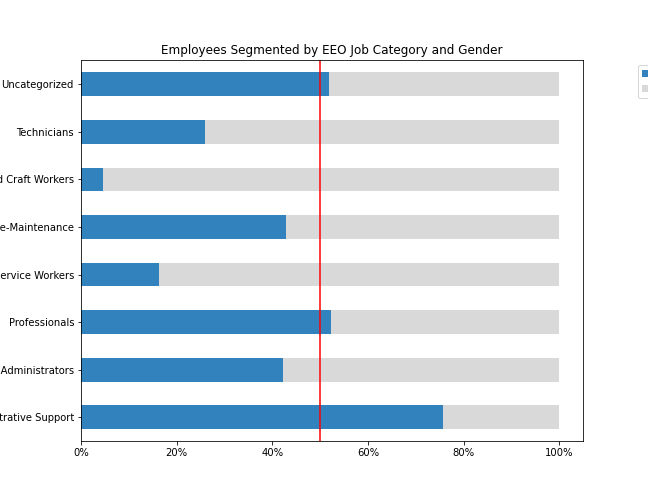
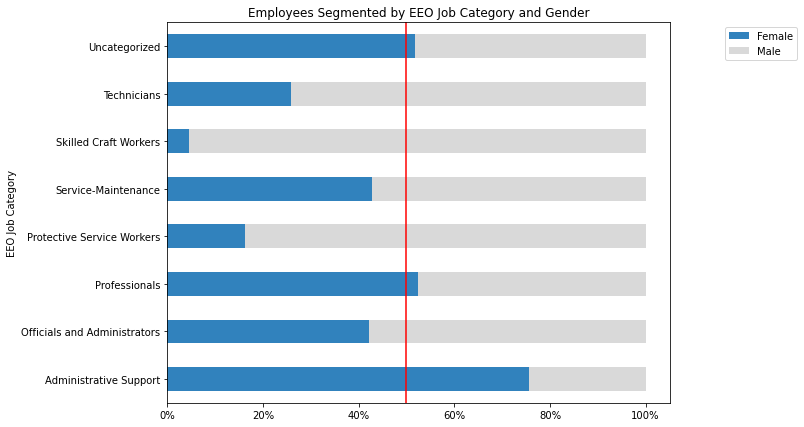
updated main plot, refactored code, edited writeup

diff --git a/code/plots.py b/code/plots.py
@@ -9,7 +9,6 @@ Created on Tue Nov 10 19:49:06 2020
 import matplotlib.pyplot as plt
 from matplotlib import ticker as mtick
 from matplotlib.gridspec import GridSpec
-import seaborn as sns
 
 
 def plot_employee_snapshot(emps,emps_by_jobclass, emps_ft_pt, emp_ages,
@@ -49,7 +48,7 @@ def plot_employee_snapshot(emps,emps_by_jobclass, emps_ft_pt, emp_ages,
     ax6=fig.add_subplot(gs[1,1])
     
     
-    #text plot displaying total employee count
+    #ax displaying logo
     
     image=plt.imread('..\images\input\cincinnati_logo.png')
     ax1.imshow(image)
@@ -105,22 +104,58 @@ def plot_employee_snapshot(emps,emps_by_jobclass, emps_ft_pt, emp_ages,
     ax5.set_yticklabels(wrapped_labels)
     
     
-    
-    
-    emps_gender.plot.pie(ax=ax6,title='Employee Gender', autopct='%1.0f%%',
-                         rot=0, wedgeprops={'width':.3}, pctdistance=.4)
-    ax6.yaxis.set_major_formatter(mtick.PercentFormatter(1))
-    ax6.set_ylabel(None)
+    plot_employee_gender(emps_gender,ax6)
     
     
     fig.savefig('..\images\output\employee_snapshot.png')
     
     
-def plot_protective_services_gender(protective_services_gender):
+    
+def plot_gender_snapshot(job_class_by_gender_pct, emps_gender):
+    
+    
+    
+    fig=plt.figure(figsize=(14,8),constrained_layout=True)
+    
+    gs=GridSpec(3, 3, figure=fig)
+    
+    ax1=fig.add_subplot(gs[0,0])
+    #ax2=fig.add_subplot(gs[1:,0])
+    ax3=fig.add_subplot(gs[0:,1:])
+    
+    
+    
+    #plot of logo
+    image=plt.imread('..\images\input\cincinnati_logo.png')
+    ax1.imshow(image)
+    
+    #removes spines from headcount axis
+    for spine in ax1.spines.keys():
+        ax1.spines[spine].set_visible(False)
+        
+    
+    ax1.set_xticks([])
+    ax1.set_yticks([])
+    
+    #plot of job class by gender
+    plot_job_class_gender(job_class_by_gender_pct, ax=ax3)
+    
+   # plot_employee_gender(emps_gender,ax=ax2)
+    
+    
+    
+    
+    
+def plot_protective_services_gender(protective_services_gender,
+                                    ax=None,save_fig=False):
     
     protective_services_gender=protective_services_gender.copy()
     
-    fig,ax=plt.subplots()
+    fig=plt.figure()
+    
+    if ax==None:
+        ax=fig.add_subplot()
+    
     
     protective_services_gender.plot.bar(stacked=True,rot=0,
                                           ax=ax,
@@ -136,12 +171,27 @@ def plot_protective_services_gender(protective_services_gender):
     ax.yaxis.set_major_formatter(mtick.PercentFormatter(1))
         
     
-    fig.savefig('..\images\output\protective_services_vs_general_gender.png',
-                bbox_inches = "tight")
+    if save_fig:
+        fig.savefig('..\images\output\protective_services_vs_general_gender.png',
+                    bbox_inches = "tight")
+        
+        
+def plot_employee_gender(emps_gender,ax=None,save_fig=False):
     
+    fig=plt.figure()
     
+    if ax==None:
+        ax=fig.add_subplot()
     
-def plot_job_class_gender(job_class_by_gender_pct):
+    emps_gender.plot.pie(ax=ax,title='Employee Gender', autopct='%1.0f%%',
+                         rot=0, wedgeprops={'width':.3}, pctdistance=.4)
+    ax.yaxis.set_major_formatter(mtick.PercentFormatter(1))
+    ax.set_ylabel(None)
+        
+    if save_fig:
+        fig.savefig('..\images\output\gender_ratio.png')
+    
+def plot_job_class_gender(job_class_by_gender_pct, ax=None,save_fig=False):
     """
     
 
@@ -156,19 +206,25 @@ def plot_job_class_gender(job_class_by_gender_pct):
 
     """
 
-   
-    fig,ax=plt.subplots(figsize=(9,7))
+    fig=plt.figure(figsize=(9,7))
+    
+    if ax==None:
+        ax=fig.add_subplot()
+    
     job_class_by_gender_pct.plot.barh(stacked=True,cmap='tab20c',ax=ax
                                       ,title='Employees Segmented by '
                                       'EEO Job Category and Gender')
     ax.xaxis.set_major_formatter(mtick.PercentFormatter(1))
     ax.legend(bbox_to_anchor=(1.1,1))
     ax.axvline(x=.5, color='red')
+    ax.set_ylabel('EEO Job Category')
     
-    fig.savefig('..\images\output\employee_job_cat_gender.png')
+    if save_fig:
+        fig.savefig('..\images\output\employee_job_cat_gender.png',
+                    bbox_inches='tight')
     
 
-def plot_leader_gender(leadership_by_gender_pct):
+def plot_leader_gender(leadership_by_gender_pct,ax = None,save_fig=False):
     """
     
 
@@ -182,43 +238,62 @@ def plot_leader_gender(leadership_by_gender_pct):
     None.
 
     """
-
-    fig,ax=plt.subplots()
-    sns.pointplot(x='Org Level',y='Percent',hue='sex',
-                  data=leadership_by_gender_pct,ax=ax,
-                  palette=sns.color_palette(['tab:orange','tab:blue']))
+    
+    fig=plt.figure()
+    
+    if ax==None:
+        ax=fig.add_subplot()
+    
+    leadership_by_gender_pct.loc[:,'Leadership'].plot.bar(ax=ax,
+                                                          rot=0)                                                          
         
-    ax.set_title('Leadership Representation: Gender')       
+    ax.set_xlabel('Gender')
+    
+    ax.set_title('Leadership Representation')       
     
     ax.yaxis.set_major_formatter(mtick.PercentFormatter(1))  
+    ax.patches[0].set_color('darkorange')
+    ax.patches[1].set_color('gray')
 
-    fig.savefig('..\images\output\leader_gender.png')
+    if save_fig:
+        fig.savefig('..\images\output\leader_gender.png')
     
     
-def plot_job_class_race(job_class_by_race_pct):
+    
+    
+def plot_job_class_race(job_class_by_race_pct,ax = None,save_fig=False):
 
     
-    fig,ax=plt.subplots(figsize=(9,7))
+    fig=plt.figure(figsize=(9,7))
+    
+    if ax==None:
+        ax=fig.add_subplot()
+        
     job_class_by_race_pct.plot.barh(stacked=True,cmap='tab20c',ax=ax
                                       ,title='Employees Segmented by '
                                       'EEO Job Category and Race')
     ax.xaxis.set_major_formatter(mtick.PercentFormatter(1))
     ax.legend(bbox_to_anchor=(1.1,1))
     
-    fig.savefig('..\images\output\job_class_race.png')
+    
+    if save_fig:
+        fig.savefig('..\images\output\job_class_race.png')
 
 
-def plot_top_job_titles(top_job_titles):
+def plot_top_job_titles(top_job_titles, ax=None, save_fig=False):
     
+    fig=plt.figure()
     
-    fig,ax=plt.subplots()
+    if ax==None:
+        ax=fig.add_subplot()
+    
     (top_job_titles.plot.barh(ax=ax,title='Top 10 Job Titles', 
                               color='silver'))
     ax.patches[9].set_color('blue')
     ax.patches[8].set_color('green')
     ax.patches[7].set_color('red')
     
-    
-    fig.savefig('..\images\output\job_titles.png')
+    if save_fig:
+        fig.savefig('..\images\output\job_titles.png')
     
         

diff --git a/code/analysis.py b/code/analysis.py
@@ -25,7 +25,7 @@ def run_analysis():
         
         plots.plot_protective_services_gender(data['pro_vs_gen_gender_pct'])
         
-        plots.plot_job_class_gender(data['jobs_by_gender_pct'])
+        plots.plot_job_class_gender(data['jobs_by_gender_pct'],save_fig=True)
         
         plots.plot_leader_gender(data['leaders_by_gender_pct'])
         
@@ -39,51 +39,6 @@ def run_analysis():
 if __name__=="__main__": run_analysis()
 
 
-"""
-#are women and men equally represented at the management level?
-#while we do see a decrease in the nunber of women from the general workforce
-#to the Leadership level, the difference isn't statistically significant
-#but there is room for improvement
-#using a hypothesis test we see that our p-value is greater than 0.05
-#so we fail to reject the null hypothesis
-
-t_stat,p_value=sm.stats.proportions_ztest(leadership_by_gender.Leadership,
-                                   leadership_by_gender.sum(axis=1),
-                                   alternative='two-sided')
-
-if p_value<0.05:
-    print('We reject the null hypothesis that women and men are represented'
-          ' equally at the management level')
-else:
-    print('We fail to reject the null hypothesis that women are in management '
-          'at a rate equal to men')
-    
-#are women and men paid equally at the leadership level?
-
-
-
-female_ldr_comp=emps.loc[(emps.eeo_job_class=='Officials and Administrators')&
-                         (emps.sex=='Female'),'annual_rt']
-
-male_ldr_comp=emps.loc[(emps.eeo_job_class=='Officials and Administrators')&
-                         (emps.sex=='Male'),'annual_rt']
-
-
-
-t_stat,p_value,df=sm.stats.ttest_ind(female_ldr_comp,
-                                     male_ldr_comp,
-                                     alternative='smaller',
-                                     usevar='unequal')
-
-if p_value<0.05:
-    print('We reject the null hypothesis that men and women are paid equally'
-          ' at the management level')
-else:
-    print('We faily to reject the null hypothesis that women and men are '
-          'paid equally at the management level')
-    
-
-"""
 
 
 

diff --git a/code/data_cleaning.py b/code/data_cleaning.py
@@ -191,10 +191,8 @@ def get_data_for_plots(emps):
         #percent of employees in leadership and non-leadership roles
         #segmented by gender
         leadership_by_gender_pct=(leadership_by_gender
-                                  .div(leadership_by_gender.sum()).unstack()
-                                  .reset_index()
-                                  .rename(columns={'level_0':'Org Level',
-                                                         0:'Percent'}))
+                                  .div(leadership_by_gender.sum()))
+
         data_dict['leaders_by_gender_pct']=leadership_by_gender_pct
         
         
